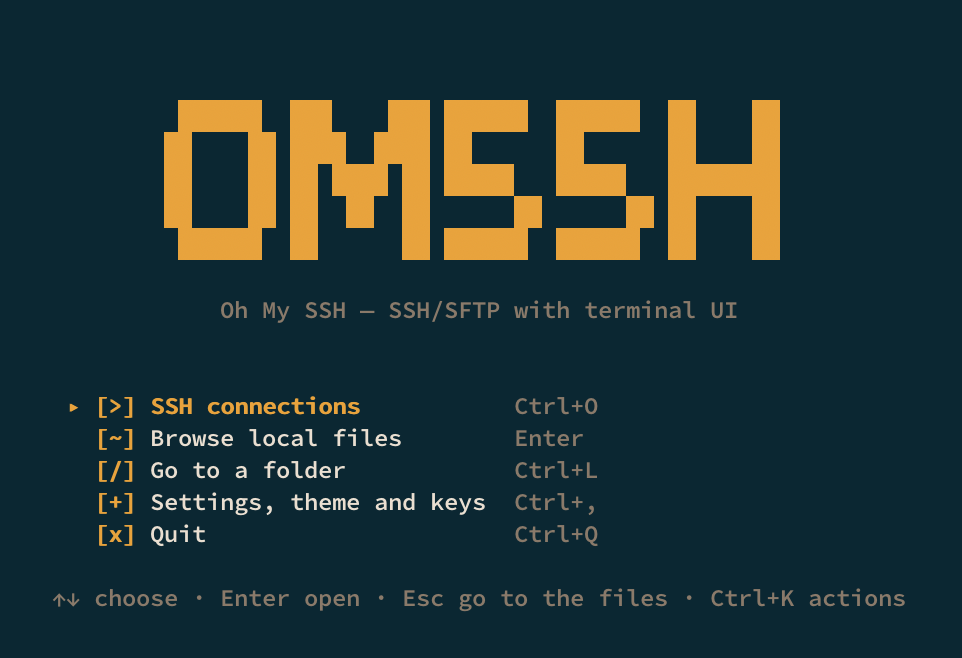
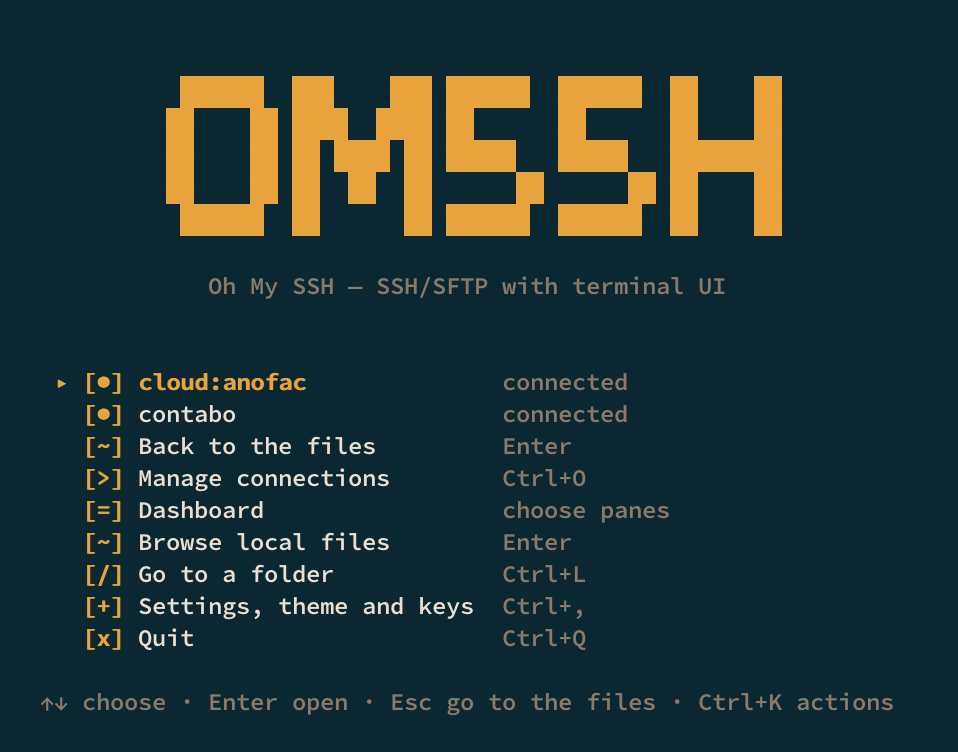
docs(readme): the manager, the dashboard choice, buckets and their keyring credentials
The README still described a launcher with one way in and a dashboard that picked
its own panes. It now says what the program does today: Manage connections with a
screen per kind, a Dashboard entry that asks which places to show (local optional),
buckets with credentials kept in the OS keyring, and dotfiles visible by default.
Also adds 'cloud forget' and the AWS-chain fallback to the CLI and config sections.

diff --git a/README.md b/README.md
@@ -8,24 +8,27 @@ Many machines, one window.
   <img src="omssh.png" alt="omssh launcher" width="70%">
 </p>
 
-It starts on a launcher, not a blank prompt: the hosts from your
-`~/.ssh/config`, your local files, a path to jump to, and the settings behind one
-key. Connections you already have are listed here too, so coming back is the same
+It starts on a launcher, not a blank prompt: **Manage connections** (hosts from
+`~/.ssh/config` and buckets, one screen per kind), **Dashboard** (which places to
+show), your local files, a path to jump to, and the settings behind one key.
+Connections you already have are listed here too, so coming back is the same
 gesture as going in.
 
 <p align="center">
   <img src="omssh-dashboard.png" alt="omssh showing three hosts in a 2×2 grid with the paste options card open" width="100%">
 </p>
 
-The dashboard puts up to four sessions on screen as a 2×2 grid — local plus three
-hosts, or four hosts — each pane with its own path, selection and history. Files
-move between any two of them, and the card in the middle is where a copy becomes an
+The dashboard puts up to four places on screen as a 2×2 grid — local plus three
+hosts, four hosts, or a bucket in the mix — each pane with its own path, selection
+and history. Which four is a choice, asked before the dashboard opens. Files move
+between any two of them, and the card in the middle is where a copy becomes an
 unpacked tree or a single archive instead of a pile of files.
 
 ## What it does
 
-- **Four panes, one screen.** Each keeps its own path and history. `w` moves
-  between them; `V` chooses which sessions are on screen.
+- **Four panes, one screen — or one.** Each keeps its own path and history.
+  `w` moves between them; `V` chooses which places are on screen, and the local
+  folder is optional, so four servers is a legitimate dashboard.
 - **Copying that respects you.** Mark files once, paste into any pane — as files,
   as an unpacked tree, or as an archive, with the conflict rule chosen in one
   card instead of a soup of flags.
@@ -34,7 +37,9 @@ unpacked tree or a single archive instead of a pile of files.
   `tar`/`unzip` on either end.
 - **Buckets as places.** AWS S3 and Cloudflare R2 open in a pane like a host:
   copy between a bucket and a server, extract an archive from a bucket, deploy
-  into one. Credentials come from the standard AWS chain, never from the config.
+  into one. Credentials come from the form (stored in the OS keyring) or the
+  standard AWS chain — never from the config file. B2, OSS, GCS, WebDAV and Azure
+  are on the [roadmap](ROADMAP.md).
 - **Deploy profiles.** A local tree to a remote root, with excludes, a reviewed
   diff, and a sync mode that mirrors. A second run with nothing changed does
   nothing.
@@ -42,6 +47,9 @@ unpacked tree or a single archive instead of a pile of files.
   tmux and colours work because nothing stands in their way.
 - **Dotfiles visible by default.** Hidden files are shown until you press `.`,
   because hiding a file by default makes you wonder where it went.
+- **One manager for every place.** `Ctrl+O` has a screen per kind — Overview, SSH,
+  S3 — with `a` adding whichever the screen is about, and `Tab` moving between
+  them.
 - **Honest about state.** Live transfers, marked files, pinned hosts and recent
   connections are visible in the sidebar; every destructive action asks first.
 - **Keyboard-first, mouse-friendly.** Plain letters are commands, digits switch
@@ -79,7 +87,8 @@ omssh prod         # the interface, already connected to prod
 ```
 
 1. `Ctrl+O` opens **Manage connections** — hosts and buckets, one screen per kind.
-   `Enter` browses one, `t` opens a terminal on it. `Esc` returns to the launcher.
+   `Enter` browses one, `t` opens a terminal on it, `a` adds one (the form asks
+   whether you mean a host or a bucket). `Esc` returns to the launcher.
 2. **Dashboard** on the launcher asks which places it should show — local is
    optional, and buckets need no session. Up to four panes, 2×2. `w` moves the
    focus, `Tab` cycles sessions.
@@ -107,8 +116,12 @@ omssh config path     # print the exact path
 
 Connections are not duplicated here: `omssh` reads and writes your
 `~/.ssh/config` in place, leaving comments and directives it does not manage
-untouched. The config file holds preferences — theme, keymap overrides,
-transfer behaviour, deploy profiles, pinned and hidden hosts.
+untouched. The config file holds preferences — theme, keymap overrides, transfer
+behaviour, deploy profiles, pinned and hidden hosts, and cloud *profiles* (bucket,
+region, endpoint — no secrets).
+
+Bucket credentials entered in the form are kept in the **OS keyring**. Leave them
+blank and the standard AWS chain is used instead.
 
 ## Command line
 
@@ -119,6 +132,7 @@ omssh exec <host> -- <command>   # one command, its exit status
 omssh cloud list                 # object-storage profiles
 omssh cloud check <profile>      # list a bucket root, and say what a 403 means
 omssh cloud ls <profile> [path]
+omssh cloud forget <profile>     # drop the stored access key
 omssh keys                       # the effective keymap
 omssh config path|init|check
 omssh version
